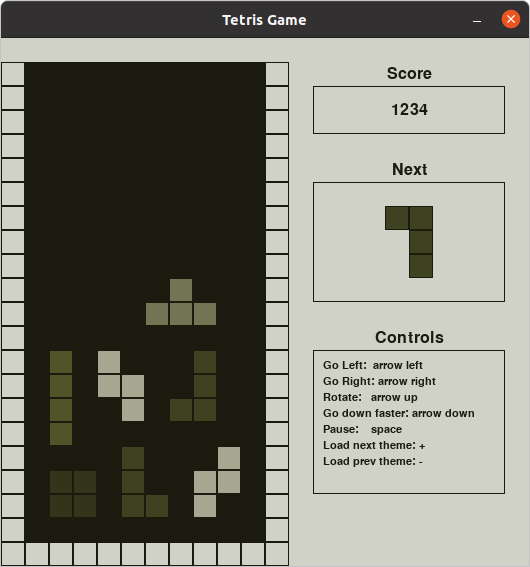
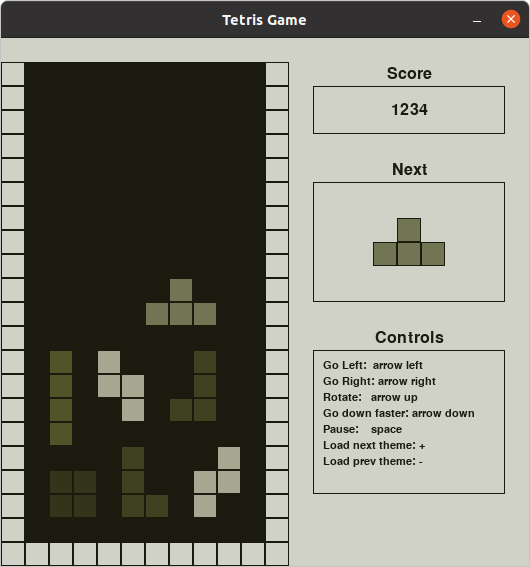
new theme: red, allowed border-radius

Changed region(s): [[0.6943, 0.3598, 0.8453, 0.5097]]

diff --git a/src/pieces.py b/src/pieces.py
@@ -150,62 +150,62 @@ class Piece:
 
 
 class PieceI(Piece):
-    def __init__(self, space):
+    def __init__(self, space, rotate=True):
         matrix = np.array([
             [I, I, I, I],
         ])
-        super().__init__(matrix, space)
+        super().__init__(matrix, space, rotate)
 
 
 
 class PieceT(Piece):
-    def __init__(self, space):
+    def __init__(self, space, rotate=True):
         matrix = np.array([
             [0, T, 0],
             [T, T, T],
         ])
-        super().__init__(matrix, space)
+        super().__init__(matrix, space, rotate)
 
 
 class PieceO(Piece):
-    def __init__(self, space):
+    def __init__(self, space, rotate=True):
         matrix = np.array([
             [O, O],
             [O, O]
         ])
-        super().__init__(matrix, space)
+        super().__init__(matrix, space, rotate)
 
 
 class PieceZ(Piece):
-    def __init__(self, space):
+    def __init__(self, space, rotate=True):
         matrix = np.array([
             [Z, Z, 0],
             [0, Z, Z]
         ])
-        super().__init__(matrix, space)
+        super().__init__(matrix, space, rotate)
 
 class PieceS(Piece):
-    def __init__(self, space):
+    def __init__(self, space, rotate=True):
         matrix = np.array([
             [0, S, S],
             [S, S, 0]
         ])
-        super().__init__(matrix, space)
+        super().__init__(matrix, space, rotate)
 
 
 class PieceL(Piece):
-    def __init__(self, space):
+    def __init__(self, space, rotate=True):
         matrix = np.array([
             [0, 0, L],
             [L, L, L]
         ])
-        super().__init__(matrix, space)
+        super().__init__(matrix, space, rotate)
 
 
 class PieceJ(Piece):
-    def __init__(self, space):
+    def __init__(self, space, rotate=True):
         matrix = np.array([
             [J, 0, 0],
             [J, J, J]
         ])
-        super().__init__(matrix, space)
+        super().__init__(matrix, space, rotate)

diff --git a/src/main.py b/src/main.py
@@ -6,6 +6,7 @@ import theme
 import pieces
 import glob
 import os
+import sys
 from pathlib import Path
 
 
@@ -75,7 +76,8 @@ class Tetris:
             [W, W, W, W, W, W, W, W, W, W, W, W]
         ]
         self.score = 1234
-        self.next_piece()
+        self.queue.append(pieces.PieceT(self.space, rotate=False))
+        #self.next_piece()
 
 
     def update_screen(self):
@@ -193,13 +195,15 @@ class Tetris:
         self.piece.action(self.action)
         self.playing = False
 
-    def run(self):
+    def run(self, debug_theme=False):
         clock = pygame.time.Clock()
 
-        self.new_game()
-        #self.reset_space_sample()
-        self.update_screen()
+        if debug_theme:
+            self.reset_space_sample()
+        else:
+            self.new_game()
 
+        self.update_screen()
 
         while self.running:
             self.process_events()
@@ -230,7 +234,11 @@ class Tetris:
             clock.tick(self.fps)
 
 
-
+debug_theme = False
 tetris = Tetris()
-tetris.run()
+
+if len(sys.argv) > 1 and sys.argv[1] == 'debugtheme':
+    debug_theme = True
+
+tetris.run(debug_theme)
 

diff --git a/src/gui.py b/src/gui.py
@@ -41,9 +41,11 @@ class GUI:
 
 
     def draw_cell(self, x, y, value):
-        rect = pygame.Rect(y, x, self.rect_size, self.rect_size)
         theme = self.theme.get(abs(value))
-        pygame.draw.rect(self.screen, theme['bg-color'], rect, 0)
+        radius = theme.get('border-radius', 0)
+
+        rect = pygame.Rect(y, x, self.rect_size, self.rect_size, border_radius=radius)
+        pygame.draw.rect(self.screen, theme['bg-color'], rect, 0, border_radius=radius)
         if theme['border-size']:
             pygame.draw.rect(
                 self.screen,

diff --git a/README.md b/README.md
@@ -8,3 +8,7 @@
 
 ### Monokai
 ![Monokai](images/monokai.png)
+
+
+### Red
+![Red](images/red.png)
